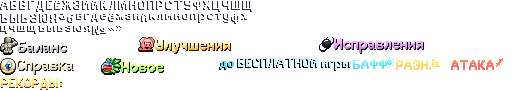
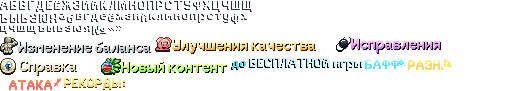
Review fixes for the hunt sign and glyph captions: full wording for patch notes headers, VOTE button ground rebuilt per row, dog name highlighted, readable 'are you sure' and advanced features, crisp reward collection, thin hat rack multi label, smaller amber gain, pet trade frame kept whole

diff --git a/tools/labelglyph.py b/tools/labelglyph.py
@@ -21,14 +21,14 @@ from modredo import detect_font   # noqa: E402
 
 # (font id, glyph, text, text font, dash length each side or 0)
 LABELS = [
-    (259, '蒂', 'Множитель бонусов вешалки', 223, 12),
+    (259, '蒂', 'Множитель вешалки', 75, 12),
 ]
 
 # (font id, glyph, canvas width or None, retext panel spec): the canvas grows to the right
 PANELS = [
     (726, chr(47691), None, {'parts': [   # Halloween: "Keep IdleOn open for another" [time] [109 below]
-        {'text': 'Держи IdleOn открытым ещё', 'box': [34, 4, 224, 21], 'clear': [[34, 4, 224, 22, 'flat']],
-         'fonts': [475], 'align': 'left', 'outline': 'auto', 'cbox': [36, 6, 222, 18]}]}),
+        {'text': 'Держи IdleOn открытым ещё', 'box': [34, 4, 224, 21], 'clear': [[34, 6, 222, 22, 'flat']],
+         'fonts': [475], 'align': 'left', 'flat': True, 'fill': '#ffda90', 'outline': 'auto', 'dy': 4}]}),
     (109, chr(50636), 132, {'erase': 'clear', 'parts': [   # ...[time] "for a FREE Play"
         {'runs': [[{'t': 'до ', 'fill': '#5fd8ff'}, {'t': 'БЕСПЛАТНОЙ игры', 'fill': '#c4f2ff'}]],
          'box': [0, 0, 132, 13], 'clear': [[0, 0, 132, 13]], 'fonts': [109], 'align': 'left'}]}),
@@ -56,8 +56,9 @@ def label(fid, ch, text, tfont, dash):
               key=lambda c: (lum(c), c))
     t = Font(str(tfont)).render(text)
     tp = t.load()
-    lo = min(lum(tp[x, y]) for y in range(t.height) for x in range(t.width) if tp[x, y][3] > 100)
+    ls = [lum(tp[x, y]) for y in range(t.height) for x in range(t.width) if tp[x, y][3] > 100]
     # the letter bodies only (the outline goes): the label is one flat colour like the original
+    lo = min(ls) if max(ls) - min(ls) > 40 else -41   # a one-colour font is all body
     rows = [y for y in range(t.height) if any(tp[x, y][3] > 100 and lum(tp[x, y]) > lo + 40 for x in range(t.width))]
     y0, y1 = rows[0], rows[-1] + 1
     w = t.width + 2 * (dash + 3) if dash else t.width
@@ -75,9 +76,9 @@ def label(fid, ch, text, tfont, dash):
     return out, g
 
 
-def panel(fid, ch, width, sp):
+def panel(fid, ch, width, sp, height=None):
     old, g = orig_glyph(fid, ch)
-    src = Image.new('RGBA', (width or old.width, old.height), (0, 0, 0, 0))
+    src = Image.new('RGBA', (width or old.width, height or old.height), (0, 0, 0, 0))
     src.paste(old, (0, 0))
     with tempfile.TemporaryDirectory() as tmp:
         build_panel('glyph.png', sp, src, src.copy(), tmp)
@@ -95,11 +96,12 @@ def simple(fid, ch, sp):
     pts = [(x, y) for y in range(old.height) for x in range(x0, x1) if px[x, y][3] > 100]
     bx = [min(p[0] for p in pts), min(p[1] for p in pts), max(p[0] for p in pts) + 1, max(p[1] for p in pts) + 1]
     fonts = sp.get('fonts') or [int(f) for f in detect_font(old, bx)[:1]] or [475]
-    w = max(old.width, x0 + Font(str(fonts[0])).render(sp['text'].split('|')[0]).width + 2)
-    part = {'text': sp['text'], 'box': [x0, 0, x1 if 'x1' in sp else w, old.height], 'clear': [[x0, 0, x1, old.height]],
+    w = max([old.width] + [x0 + Font(str(fonts[0])).render(t).width * sp.get('px', 1) + 2 for t in sp['text'].split('|')])
+    h = sp.get('height', old.height)   # the glyph may grow downwards
+    part = {'text': sp['text'], 'box': [x0, 0, x1 if 'x1' in sp else w, h], 'clear': [[x0, 0, x1, old.height]],
             'fonts': fonts, 'outline': 'auto', 'cbox': bx, 'align': sp.get('align', 'left' if x0 else 'center')}
-    part.update({k: v for k, v in sp.items() if k not in ('x0', 'x1')})
-    return panel(fid, ch, w, {'erase': sp.get('erase', 'clear'), 'parts': [part]})
+    part.update({k: v for k, v in sp.items() if k not in ('x0', 'x1', 'height', 'restore')})
+    return panel(fid, ch, w, {'erase': sp.get('erase', 'clear'), 'parts': [part], 'restore': sp.get('restore', [])}, h)
 
 
 def main():
